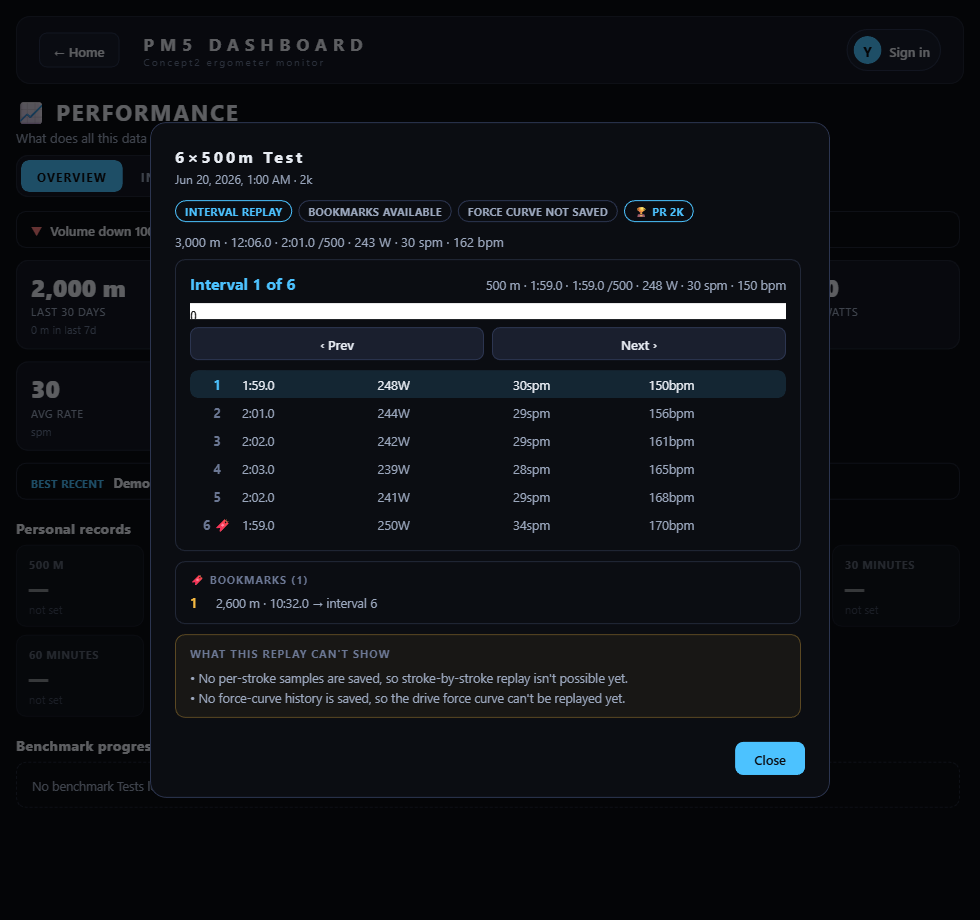
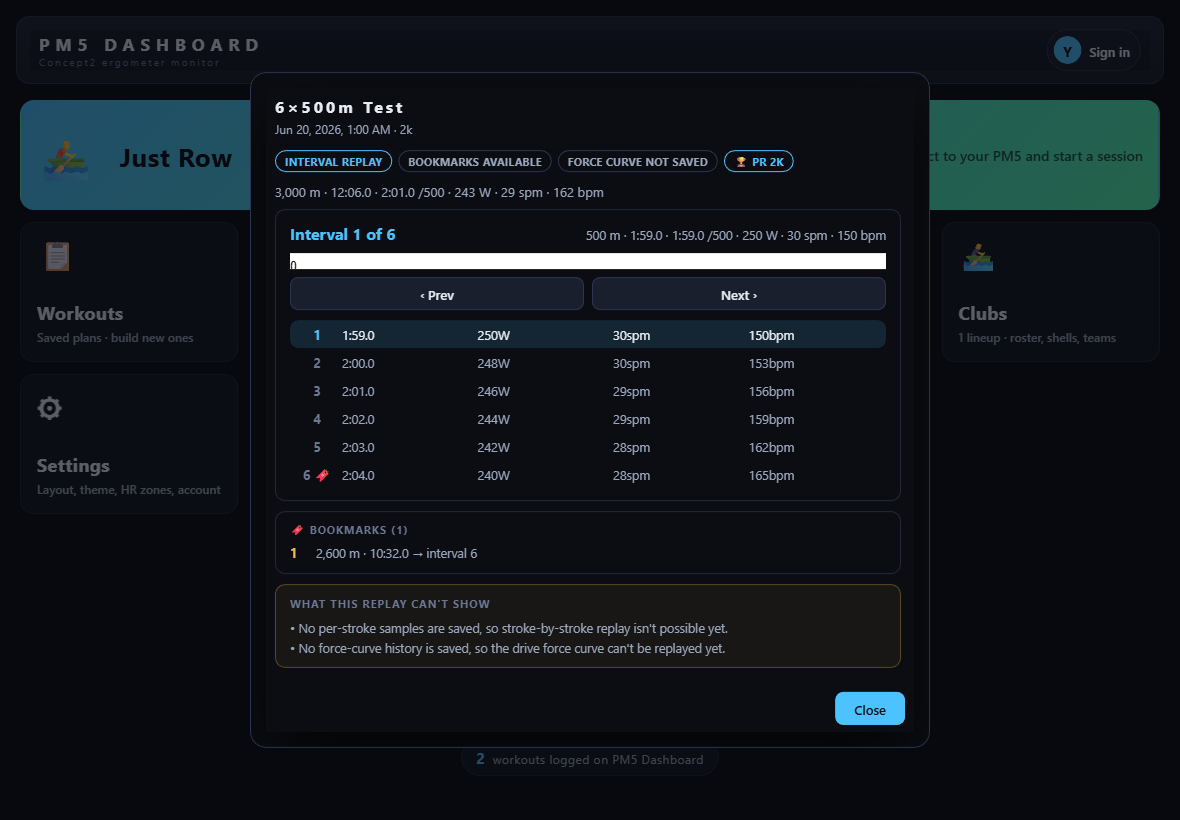
v1.16.0 — Visual Theme Refresh
Focused visual-polish pass — depth, motion, theme consistency — under the
600 KB guard, no behavior or feature changes.

- Theme-safe buttons: fixed a cross-theme bug where button hover used
  hardcoded colours (#222a40 / #6cd2ff), so accent buttons hovered blue on
  every theme (Crimson/Forest/Ocean/Light). Hover/press now derive from the
  active theme's tokens (var(--border-bright), filter:brightness) + a subtle
  :active press.
- Modal depth: frosted backdrop-filter blur + elevation shadow on .modal
  (Settings/Summary/Replay/Builder/Focus/club modals all share it).
- Card + header polish: menu cards lift on hover; header gets a subtle
  gradient + crisper border.
- Themed thin scrollbars (Chrome/Edge).

All 8 themes, live monitor, Performance, and the Replay MVP unchanged
functionally — verified by UI smoke + 375px overflow checks (home /
performance / replay / summary / settings, 0 overflow). Refreshed home.png
and session-replay-overview.png (demo data only). Bundle 596 -> 597 KB
(under guard). No club / Firestore / security changes; firestore.rules
untouched.

diff --git a/pm5web/index.html b/pm5web/index.html
@@ -56,16 +56,20 @@
     font-weight: 600;
     font-family: inherit;
     cursor: pointer;
+    transition: background-color .12s ease, border-color .12s ease, filter .12s ease, transform .05s ease;
   }
-  button:hover { background: #222a40; border-color: var(--accent); }
+  /* Theme-safe hover/press: brighten via the theme's own tokens (the old
+     hardcoded #222a40 / #6cd2ff turned every theme's buttons blue). */
+  button:hover { background: var(--border-bright); border-color: var(--accent); }
+  button:active:not(:disabled) { transform: translateY(1px); }
   button:disabled { color: var(--text-dim); cursor: not-allowed; }
   button.accent {
     background: var(--accent);
     color: var(--bg-base);
     border-color: var(--accent);
   }
-  button.accent:hover { background: #6cd2ff; }
-  button.accent:disabled { background: var(--border-bright); color: var(--text-dim); }
+  button.accent:hover { filter: brightness(1.08); }
+  button.accent:disabled { background: var(--border-bright); color: var(--text-dim); filter: none; }
   input[type="text"], input[type="number"], select {
     background: var(--bg-base);
     color: var(--text);
@@ -78,6 +82,13 @@
   }
   input:focus, select:focus { border-color: var(--accent); }
 
+  /* v1.16.0 — thin themed scrollbars for a more finished feel. */
+  html { scrollbar-width: thin; scrollbar-color: var(--border-bright) transparent; }
+  ::-webkit-scrollbar { width: 9px; height: 9px; }
+  ::-webkit-scrollbar-thumb { background: var(--border-bright); border-radius: 8px; }
+  ::-webkit-scrollbar-thumb:hover { background: var(--text-dim); }
+  ::-webkit-scrollbar-track { background: transparent; }
+
   /* ------- Layout ------- */
   #app {
     display: flex;
@@ -88,8 +99,8 @@
     min-height: 0;
   }
   header {
-    background: var(--bg-panel);
-    border: 1px solid var(--border);
+    background: linear-gradient(180deg, var(--bg-panel-hi), var(--bg-panel));
+    border: 1px solid var(--border-bright);
     border-radius: 14px;
     padding: 10px 22px;
     display: flex;
@@ -97,6 +108,7 @@
     gap: 16px;
     height: 68px;
     flex: 0 0 auto;
+    box-shadow: 0 1px 0 rgba(255,255,255,.03) inset;
   }
   .conn-status { display: flex; align-items: center; gap: 12px; }
   .hdr-actions { display: flex; gap: 6px; }
@@ -262,9 +274,10 @@
   }
   .menu-card:hover {
     border-color: var(--accent);
-    transform: translateY(-1px);
+    transform: translateY(-2px);
+    box-shadow: 0 12px 30px -14px rgba(0,0,0,.55);
   }
-  .menu-card:active { transform: translateY(0); }
+  .menu-card:active { transform: translateY(0); box-shadow: none; }
   .menu-card .card-icon { font-size: 30px; line-height: 1; }
   .menu-card .card-name {
     font-size: 18px;
@@ -1860,7 +1873,9 @@
   /* ------- Modals ------- */
   .modal-overlay {
     position: fixed; inset: 0;
-    background: rgba(0,0,0,.6);
+    background: rgba(5,7,12,.62);
+    backdrop-filter: blur(3px);
+    -webkit-backdrop-filter: blur(3px);
     display: none;
     align-items: center;
     justify-content: center;
@@ -1877,6 +1892,7 @@
     display: flex;
     flex-direction: column;
     overflow: hidden;
+    box-shadow: 0 24px 64px -16px rgba(0,0,0,.7);
   }
   .modal h2 { font-size: 16px; font-weight: 700; letter-spacing: 3px; margin: 0; }
   .modal .h-sub { color: var(--text-muted); font-size: 12px; margin: 4px 0 12px; }
@@ -4716,7 +4732,7 @@ const GOOGLE_CLIENT_ID = "651380880092-i6g4a0arq99ilr95jg185c5hlq7e144v.apps.goo
 // release-notes modal can fire on the first load after an update.
 // Released versions are listed in RELEASE_NOTES below — keep these
 // in sync with CHANGELOG.md in the repo.
-const APP_VERSION = "1.15.1";
+const APP_VERSION = "1.16.0";
 // Session record schema version (#12). Bump when the saved-entry shape
 // changes incompatibly so migrations have a foothold.
 const SESSION_SCHEMA_VERSION = 2;

diff --git a/pm5web/sw.js b/pm5web/sw.js
@@ -14,7 +14,7 @@
  * everything else, so authenticated Drive calls etc. always go live.
  */
 // Bump this when you redeploy to force a fresh shell on every client.
-const CACHE_VERSION = "pm5-v41";
+const CACHE_VERSION = "pm5-v42";
 const SHELL = [
   "./manifest.json",
   "./icon-192.png",

diff --git a/CHANGELOG.md b/CHANGELOG.md
@@ -10,6 +10,16 @@ The format follows [Keep a Changelog](https://keepachangelog.com/en/1.1.0/).
 - Session replay — stroke-by-stroke + force-curve scrubber (needs new per-stroke + force-curve capture first — see [known-issues](docs/known-issues.md))
 - AI technique analysis (peak-timing trends)
 
+## [v1.16.0] — June 2026 — Visual Theme Refresh
+
+A focused visual-polish pass — depth, motion, and theme consistency — kept under the 600 KB guard with no behavior or feature changes.
+
+- **Theme-safe buttons** — fixed a real cross-theme bug: button hover used hardcoded colors (`#222a40`, `#6cd2ff`), so on the Crimson / Forest / Ocean / Light themes the accent buttons still hovered blue. Hover/press now derive from the active theme's own tokens (`var(--border-bright)`, `filter: brightness()`), plus a subtle `:active` press for tactile feedback.
+- **Modal depth** — frosted `backdrop-filter` blur behind every modal + a soft elevation shadow, so dialogs read as floating above the page (Settings, Summary, Replay, Builder, Focus, club modals — all share `.modal`).
+- **Card & header polish** — menu cards lift with a shadow on hover; the header gets a subtle vertical gradient + crisper border for a more premium top bar.
+- **Themed scrollbars** — thin, theme-tinted scrollbars (Chrome/Edge) replace the default chrome.
+- All eight themes, the live monitor, Performance page, and the Session Replay MVP are unchanged functionally; verified by UI smoke + 375px overflow checks across home / performance / replay / summary / settings. Bundle 596 → **597 KB** (under the 600 KB guard). No club / Firestore / security changes.
+
 ## [v1.15.1] — June 2026 — Bundle Budget Reset
 
 A technical cleanup release — reclaim headroom under the 600 KB bundle guard before the next feature. **No behavior changes.**

diff --git a/README.md b/README.md
@@ -21,7 +21,7 @@
 
 > Open in Chrome or Edge on a desktop or Android phone. Click **Connect**, pair the PM5 over Bluetooth, and row.
 
-**Current release: `v1.15.1`** ([changelog](CHANGELOG.md)) · single 596 KB `index.html`, no framework, no build step.
+**Current release: `v1.16.0`** ([changelog](CHANGELOG.md)) · single 597 KB `index.html`, no framework, no build step.
 
 ---
 
@@ -179,7 +179,7 @@ The part I'd want a reviewer to see first:
 |                                  |               |
 |----------------------------------|---------------|
 | Lines of code (web app)          | **~13,600** (single `index.html`) |
-| Shipped bundle                   | **596 KB**    |
+| Shipped bundle                   | **597 KB**    |
 | Live metrics                     | **48**        |
 | Of those, heart-rate metrics     | **20**        |
 | Focus presets                    | **6**         |
@@ -192,7 +192,7 @@ The part I'd want a reviewer to see first:
 | Render time (mid-tier hardware)  | < 10 ms       |
 | Offline-capable                  | yes (after first load) |
 | Crash-resistant                  | yes (auto-save recovery every 5 s) |
-| Released versions                | **23** (v1.0.0 → v1.15.1; [changelog](CHANGELOG.md)) · 7 git tags |
+| Released versions                | **24** (v1.0.0 → v1.16.0; [changelog](CHANGELOG.md)) · 7 git tags |
 | Total commits                    | **48** ([activity](https://github.com/cbikkula/pm5-dashboard/commits/main)) |
 | Server I run                     | **none** — serverless by design (Firebase Spark, **$0/mo**) |
 

diff --git a/docs/feature-backlog.md b/docs/feature-backlog.md
@@ -39,6 +39,7 @@ To pull the next item: open a chat with me and say `do backlog #N`. I'll build i
 | 31 | ✅ done v1.12.0 | Lineup readiness + rowing intelligence | Pure readiness engine (Ready / Needs attention / Blocked), upgraded stroke→bow seat map, equipment validation (sweep/scull + boat class), compact P/S notation, rowing-specific copy/export + athlete view. *Partial down-payment on L9 (crew compatibility) and L11 (rigging).* |
 | 32 | ✅ done v1.13.0 | Workout assignment to lineups          | Assign a practice workout to a lineup / team / squad / club / athlete (saved plan or free text, rate/split/HR targets, focus tags, coach-private + athlete-visible notes). New `workoutAssignments` subcollection + rules; athlete *Today's assignment* view; no personal history copied into club data. |
 | 33 | ✅ done v1.14.0 | Performance page Phase 2               | Real Overview (7/30-day rollups + best session + trend), Personal Records surfaced from Settings, benchmark-progress sparklines, fatigue + HR summaries, technique trends, real Insights. Pure analytics over saved history; no chart library. *Delivers the L13 Overview / Personal Records / Benchmark Progress / Fatigue / Technique sections.* |
+| 34 | ✅ done v1.16.0 | Visual theme refresh + UI polish       | Premium depth/motion pass under the bundle guard: theme-safe button hover/press (fixed a cross-theme hardcoded-colour bug), frosted modal backdrop + elevation, menu-card hover lift, header gradient, themed scrollbars. No behavior or feature changes; all 8 themes + live monitor + Performance + Replay verified intact at desktop and 375px. |
 
 ## Long-term roadmap
 